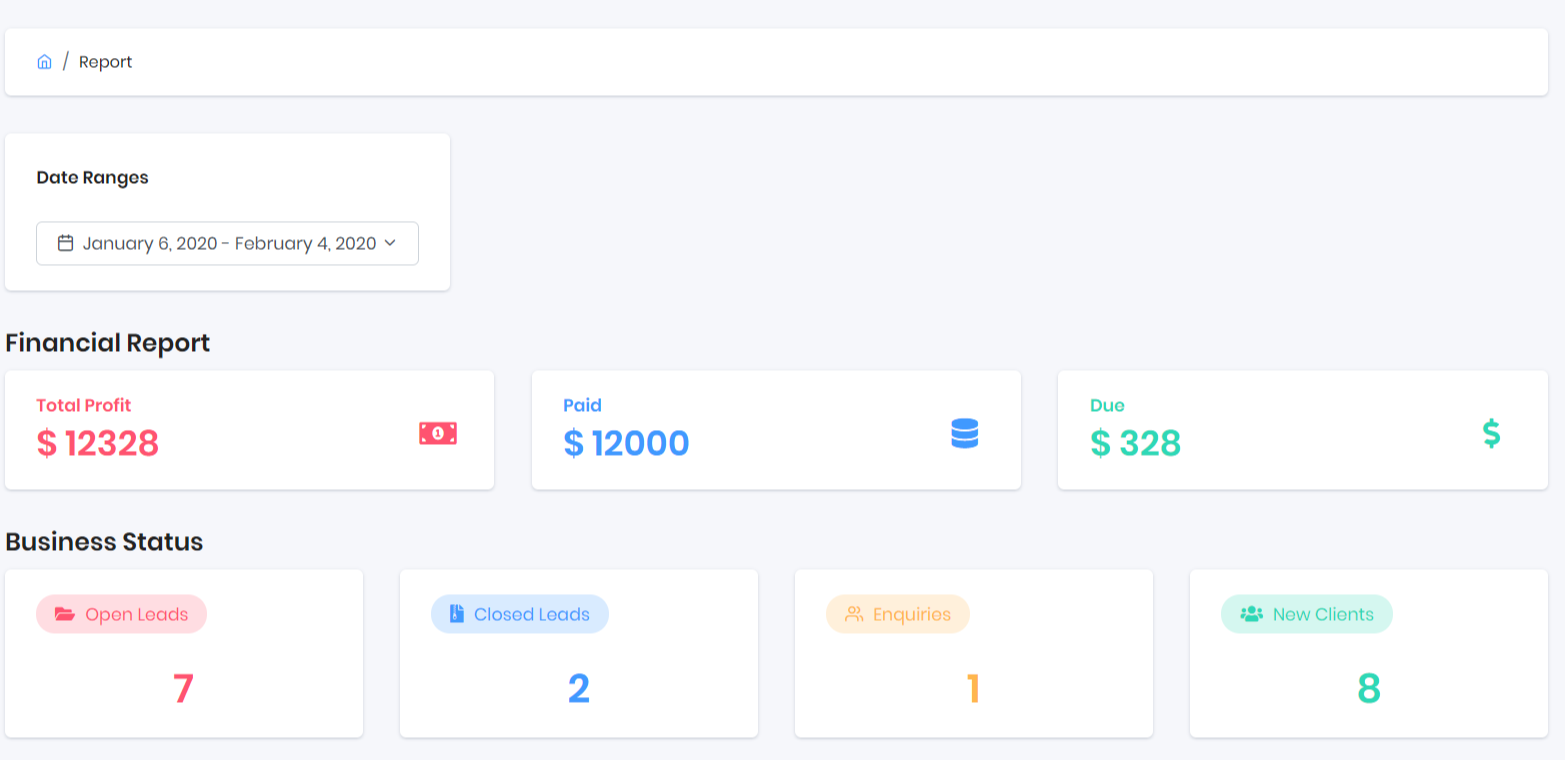
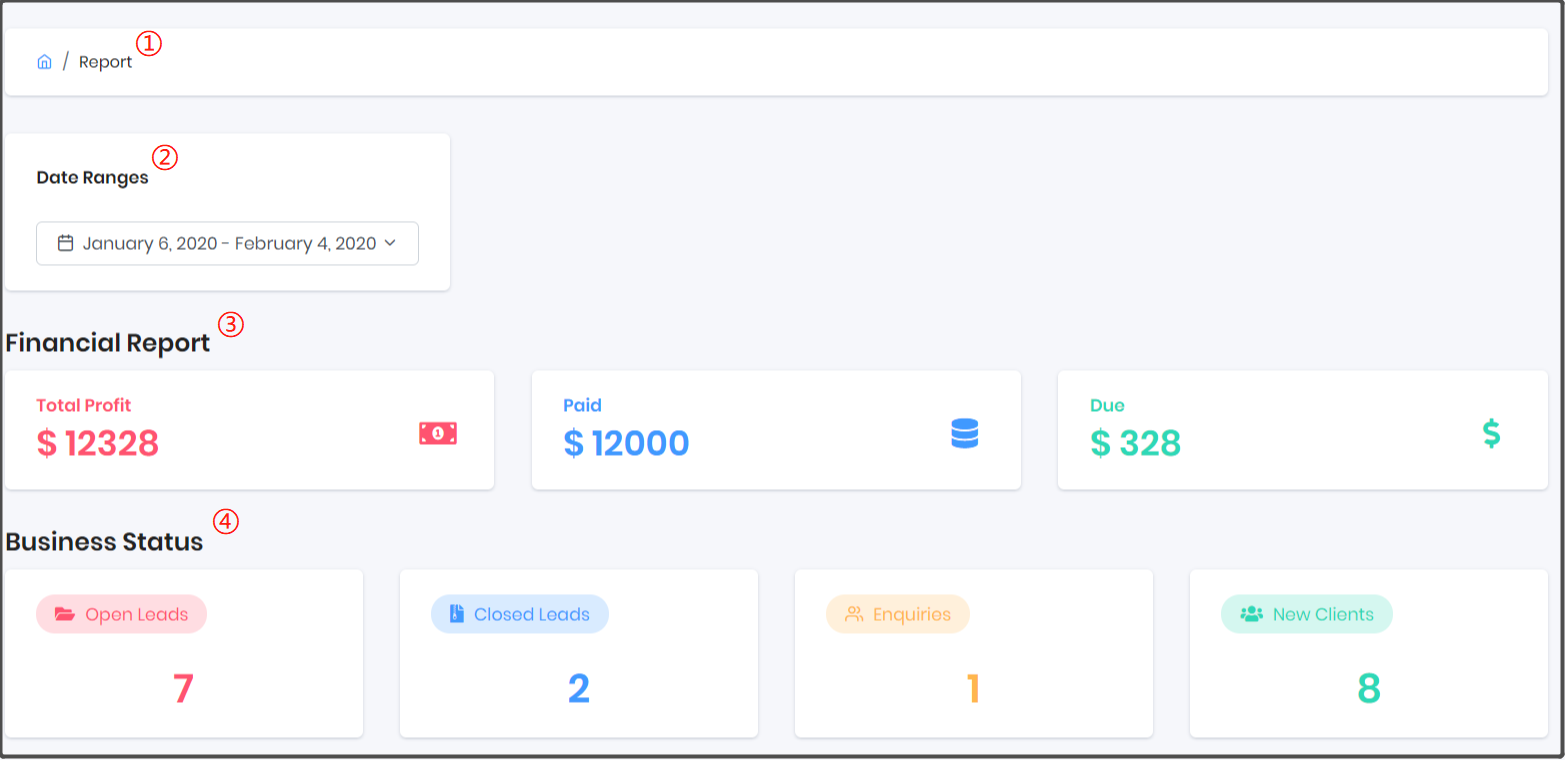
Edit img and content for dashboard_report

diff --git a/pages/orbiscrm.faq/faq.dashboard_report.md b/pages/orbiscrm.faq/faq.dashboard_report.md
@@ -18,7 +18,17 @@ folder: orbis
         </div>
         <div id="how-do-i-add-a-new-task" class="panel-collapse collapse noCrossRef">
             <div class="panel-body">
-                To be added...
+                <ol>
+                    <li style="font-weight: bold">Click the【+ New Task】</li>
+                    <img src="images/dashboard_report/add-a-new-task-1.png" alt="add-a-new-task-1.png" style="width: 50%"><br>
+                </ol>
+                <ol>
+                    <li style="font-weight: bold">Fill in the【Task Name】</li>
+                    <li style="font-weight: bold">Select the【Due date】</li>
+                    <li style="font-weight: bold">Select the【Priority】</li>
+                    <li style="font-weight: bold">Click【Save Event】</li>
+                    <img src="images/dashboard_report/add-a-new-task-2.png" alt="add-a-new-task-2.png" style="width: 50%"><br>
+                </ol>
             </div>
         </div>
     </div>
@@ -33,7 +43,19 @@ folder: orbis
         </div>
         <div id="how-do-i-customize-date-range" class="panel-collapse collapse noCrossRef">
             <div class="panel-body">
-                To be added...
+                <ol>
+                    <li style="font-weight: bold">Click the【Date Ranges Bar】</li>
+                    <li style="font-weight: bold">Click the【Custom Range】</li>
+                    <img src="images/dashboard_report/custom-date-range-1.png" alt="custom-date-range-1.png" style="width: 30%"><br>
+                    <li style="font-weight: bold">Select the【Start Date】</li>
+                    <li style="font-weight: bold">Select the【End Date】</li>
+                    <li style="font-weight: bold">Click【Apply】</li>
+                    <img src="images/dashboard_report/custom-date-range-2.png" alt="custom-date-range-2.png" style="width: 75%"><br>
+                </ol>   
+                <ul>
+                    <li style="font-weight: bold">Final example result would be showing like image below</li>
+                    <img src="images/dashboard_report/custom-date-range-3.png" alt="custom-date-range-3.png" style="width: 80%"><br>
+                </ul>
             </div>
         </div>
     </div>
@@ -48,17 +70,17 @@ folder: orbis
         </div>
         <div id="what-shows-in-dashboard-page" class="panel-collapse collapse noCrossRef">
             <div class="panel-body">
-                <img src="images/dashboard.png" alt="Dashboard" style="width: 100%"><br>
-                <ul>
-                    <li>Business Status</li>
+                <img src="images/dashboard_report/dashboard.png" alt="Dashboard" style="width: 80%"><br>
+                <ol>
+                    <li style="font-size: larger; font-weight: bold">【Business Status】</li>
                         <ul><li>Click on any of the 4 business status to view them in more detail. </li></ul>
-                    <li>Application</li>
+                    <li style="font-size: larger; font-weight: bold">【Application】</li>
                         <ul><li>Visual representation of application status</li></ul>
-                    <li>Business Statistic</li>
+                    <li style="font-size: larger; font-weight: bold">【Business Statistic】</li>
                         <ul><li>View the chart to compare the Business Statistics between current month and previous month.</li></ul>
-                    <li>Pending Tasks</li>
+                    <li style="font-size: larger; font-weight: bold">【Pending Tasks】</li>
                         <ul><li>A reminder table of what tasks are yet to be completed, which can be checked by clicking on them </li></ul>
-                </ul>
+                </ol>
             </div>
         </div>
     </div>
@@ -73,7 +95,13 @@ folder: orbis
         </div>
         <div id="what-shows-in-report-page" class="panel-collapse collapse noCrossRef">
             <div class="panel-body">
-                To be added...
+                <img src="images/dashboard_report/report.png" alt="report.png" style="width: 80%"><br>
+                <ol>
+                    <li style="font-size: larger; font-weight: bold">【Navigation Bar】</li>
+                    <li style="font-size: larger; font-weight: bold">【Date Ranges Picker】</li>
+                    <li style="font-size: larger; font-weight: bold">【Financial Report】</li>
+                    <li style="font-size: larger; font-weight: bold">【Business Status】</li>
+                </ol>
             </div>
         </div>
     </div>
